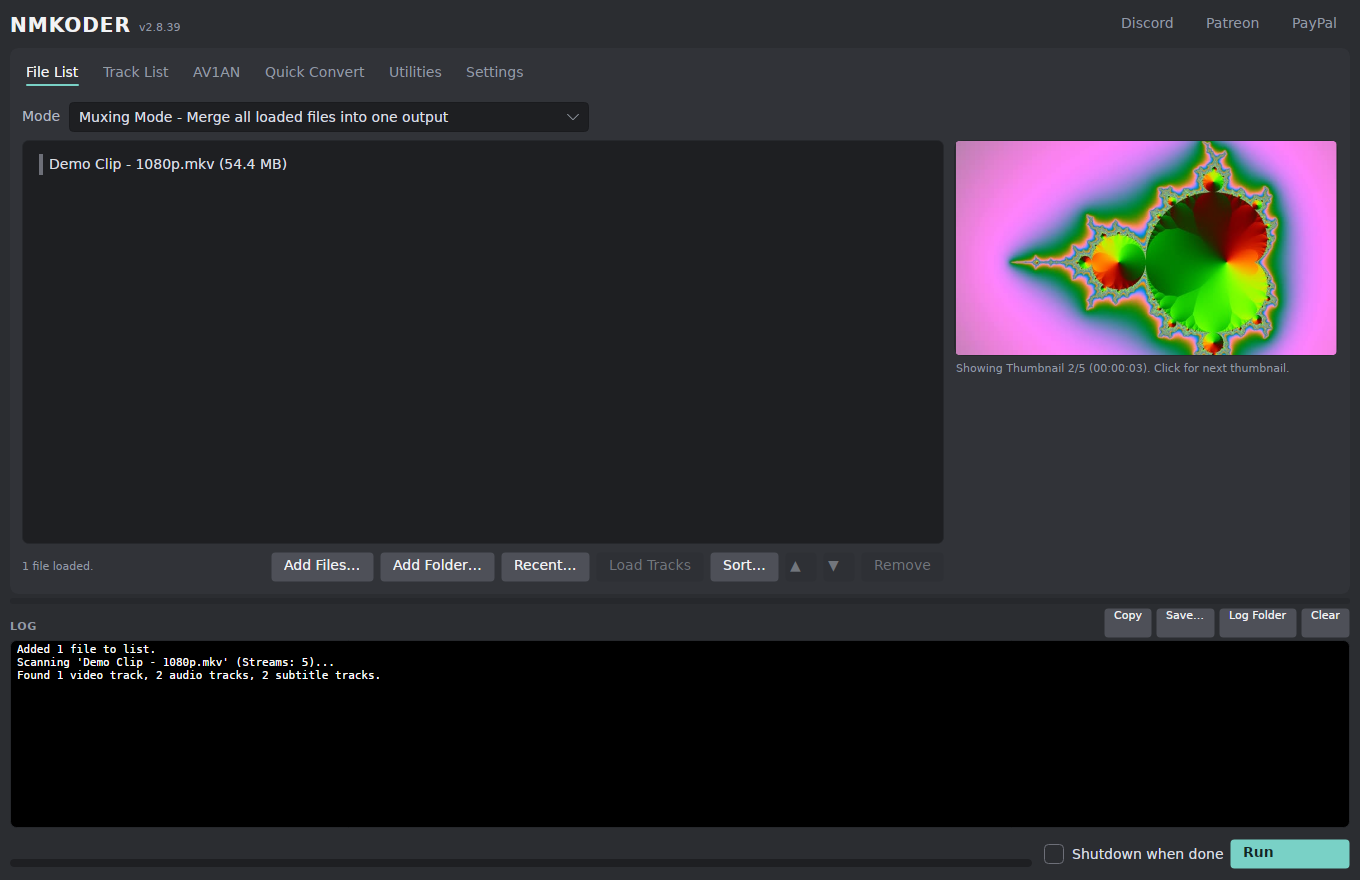
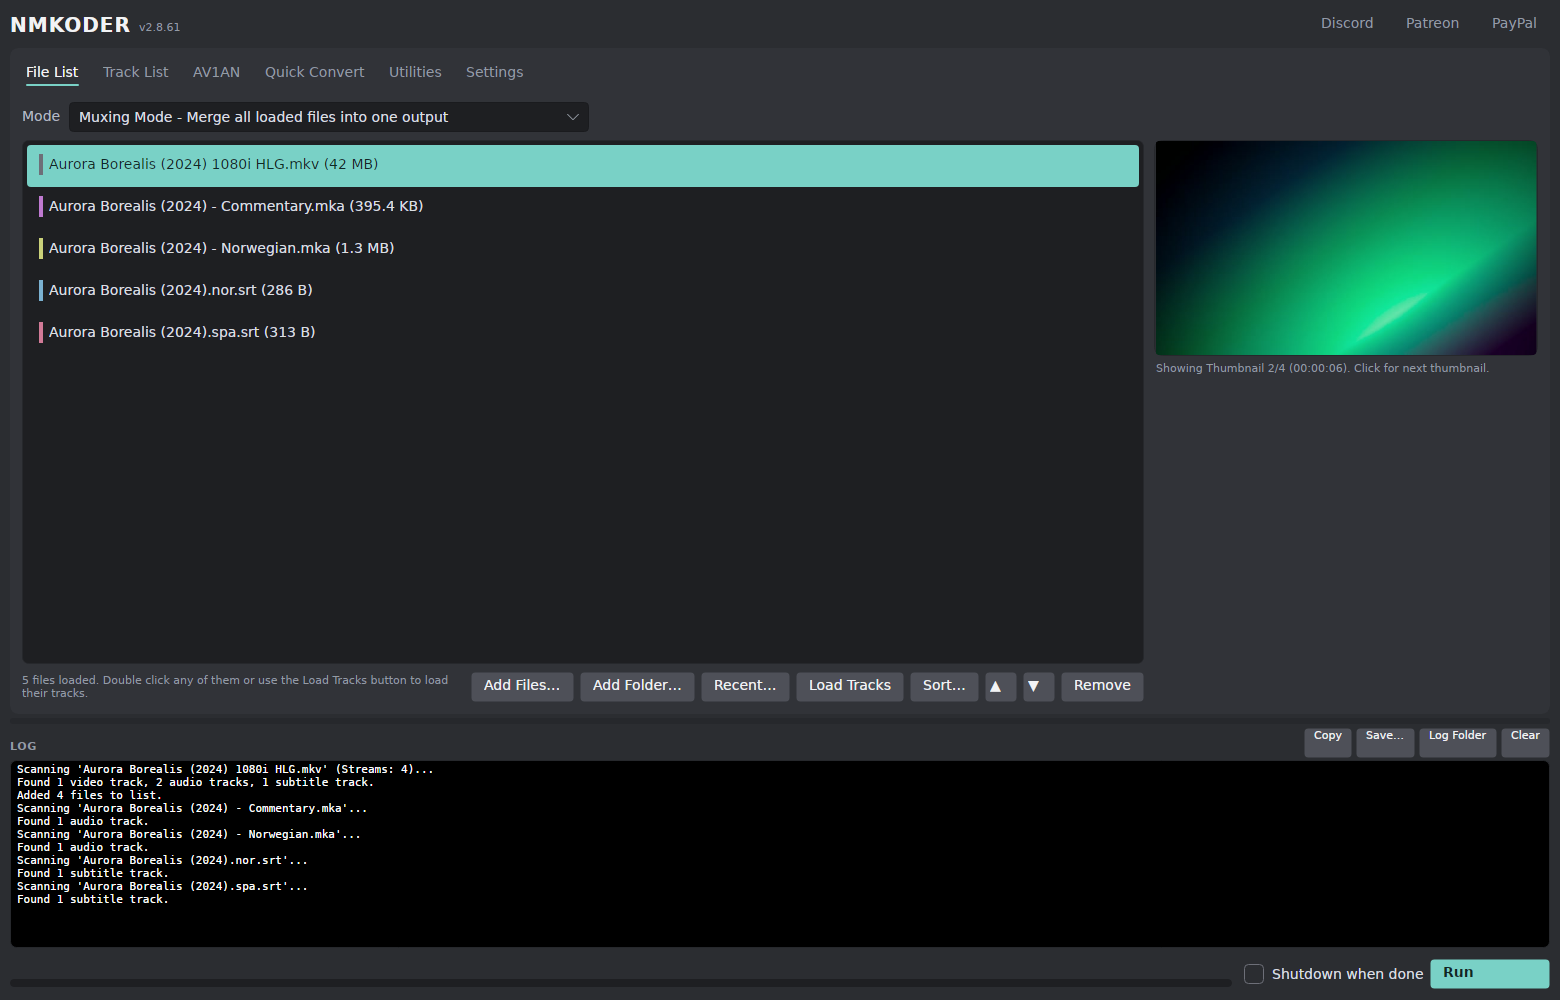
Reshoot the README's screenshots against the current UI
All seven were taken on 2.8.39 and render that version in the header. Two
releases of layout work have landed since, so they showed a UI nobody has:
the Video tabs in the superseded two-column layout with no Grain Synthesis
row, and a Utilities tab of nine cards missing Sample Encodes - which the
README gives its longest Utilities bullet to and calls the thing a GUI can do
that a command line will not.

Shot through the real MainWindow at 1560x1000, with a demo file loaded so the
rows that only appear for a file that warrants them are actually on screen:
Grain Synthesis, Deinterlace and Tone Mapping all show, the last two off an
interlaced HLG source. That also puts the AV1AN tone-map row in the README
in its post-merge shape, with no CPU-chain tick beside it.

The Quick Convert deinterlacer is set to bwdif rather than left on its QTGMC
default, because on a machine with no VapourSynth the readout appends "because
VapourSynth is not installed here" - true of this container and not of the
Windows build the screenshot represents, which bundles it.

diff --git a/README.md b/README.md
@@ -17,7 +17,7 @@ Portable and self-contained on Windows, Linux and macOS. Nothing to install.
 
 [**Download**](#download) · [Features](#features) · [What's new since the fork](#whats-new-since-the-fork) · [What a release bundles](#what-a-release-bundles) · [Building](#building)
 
-<img src="docs/images/quick-convert.png" width="880" alt="The Quick Convert tab: codec, container, quality mode, resize and borders, with the log panel below">
+<img src="docs/images/quick-convert.png" width="880" alt="The Quick Convert tab: codec and quality on the left, the framing chain in the middle, grain synthesis, deinterlacing and tone mapping on the right, with the log panel below">
 
 </div>
 
